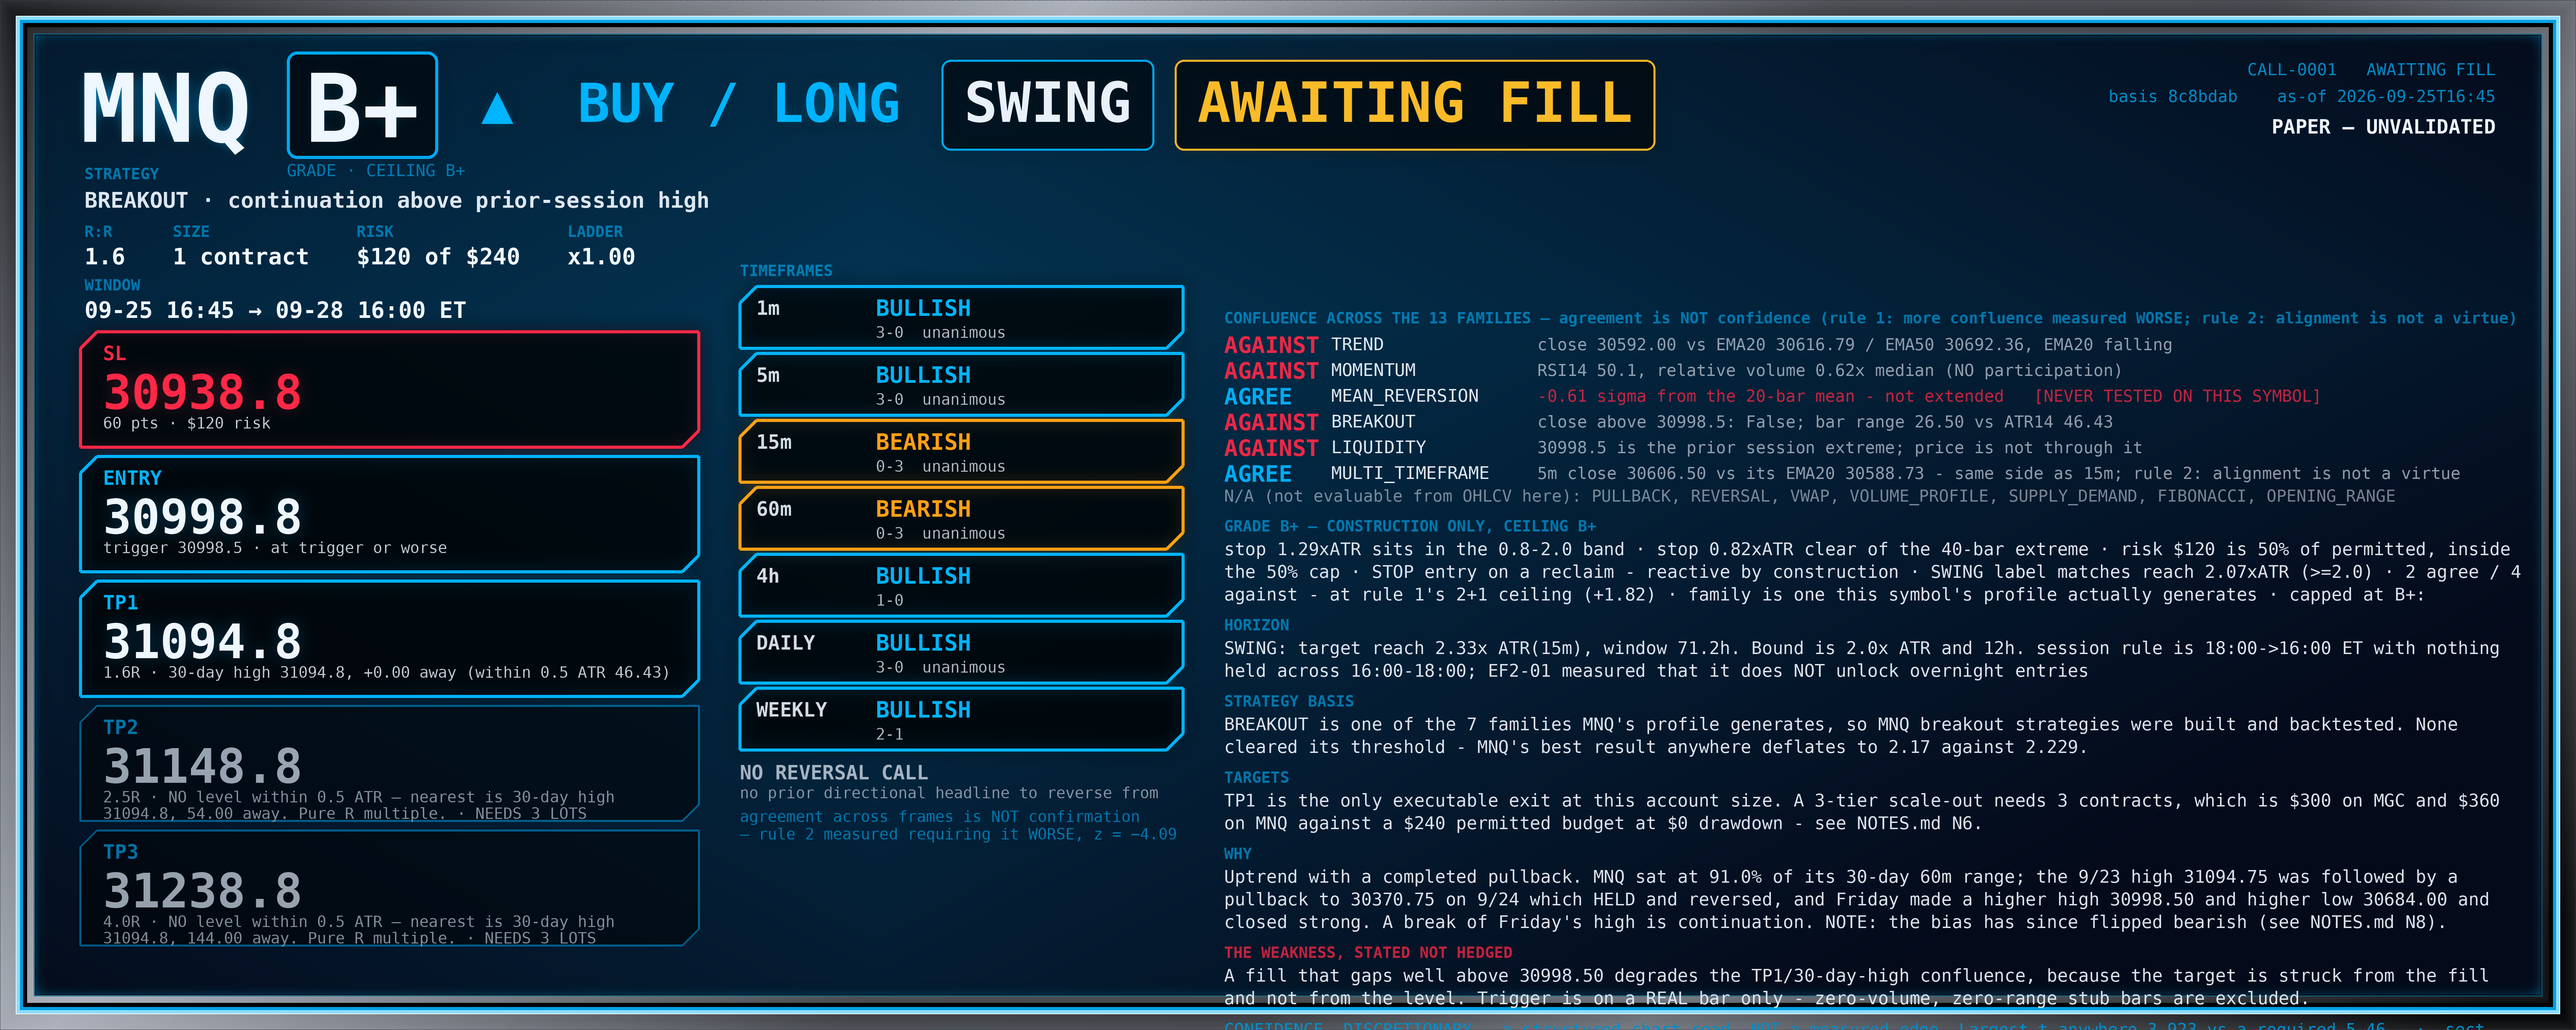
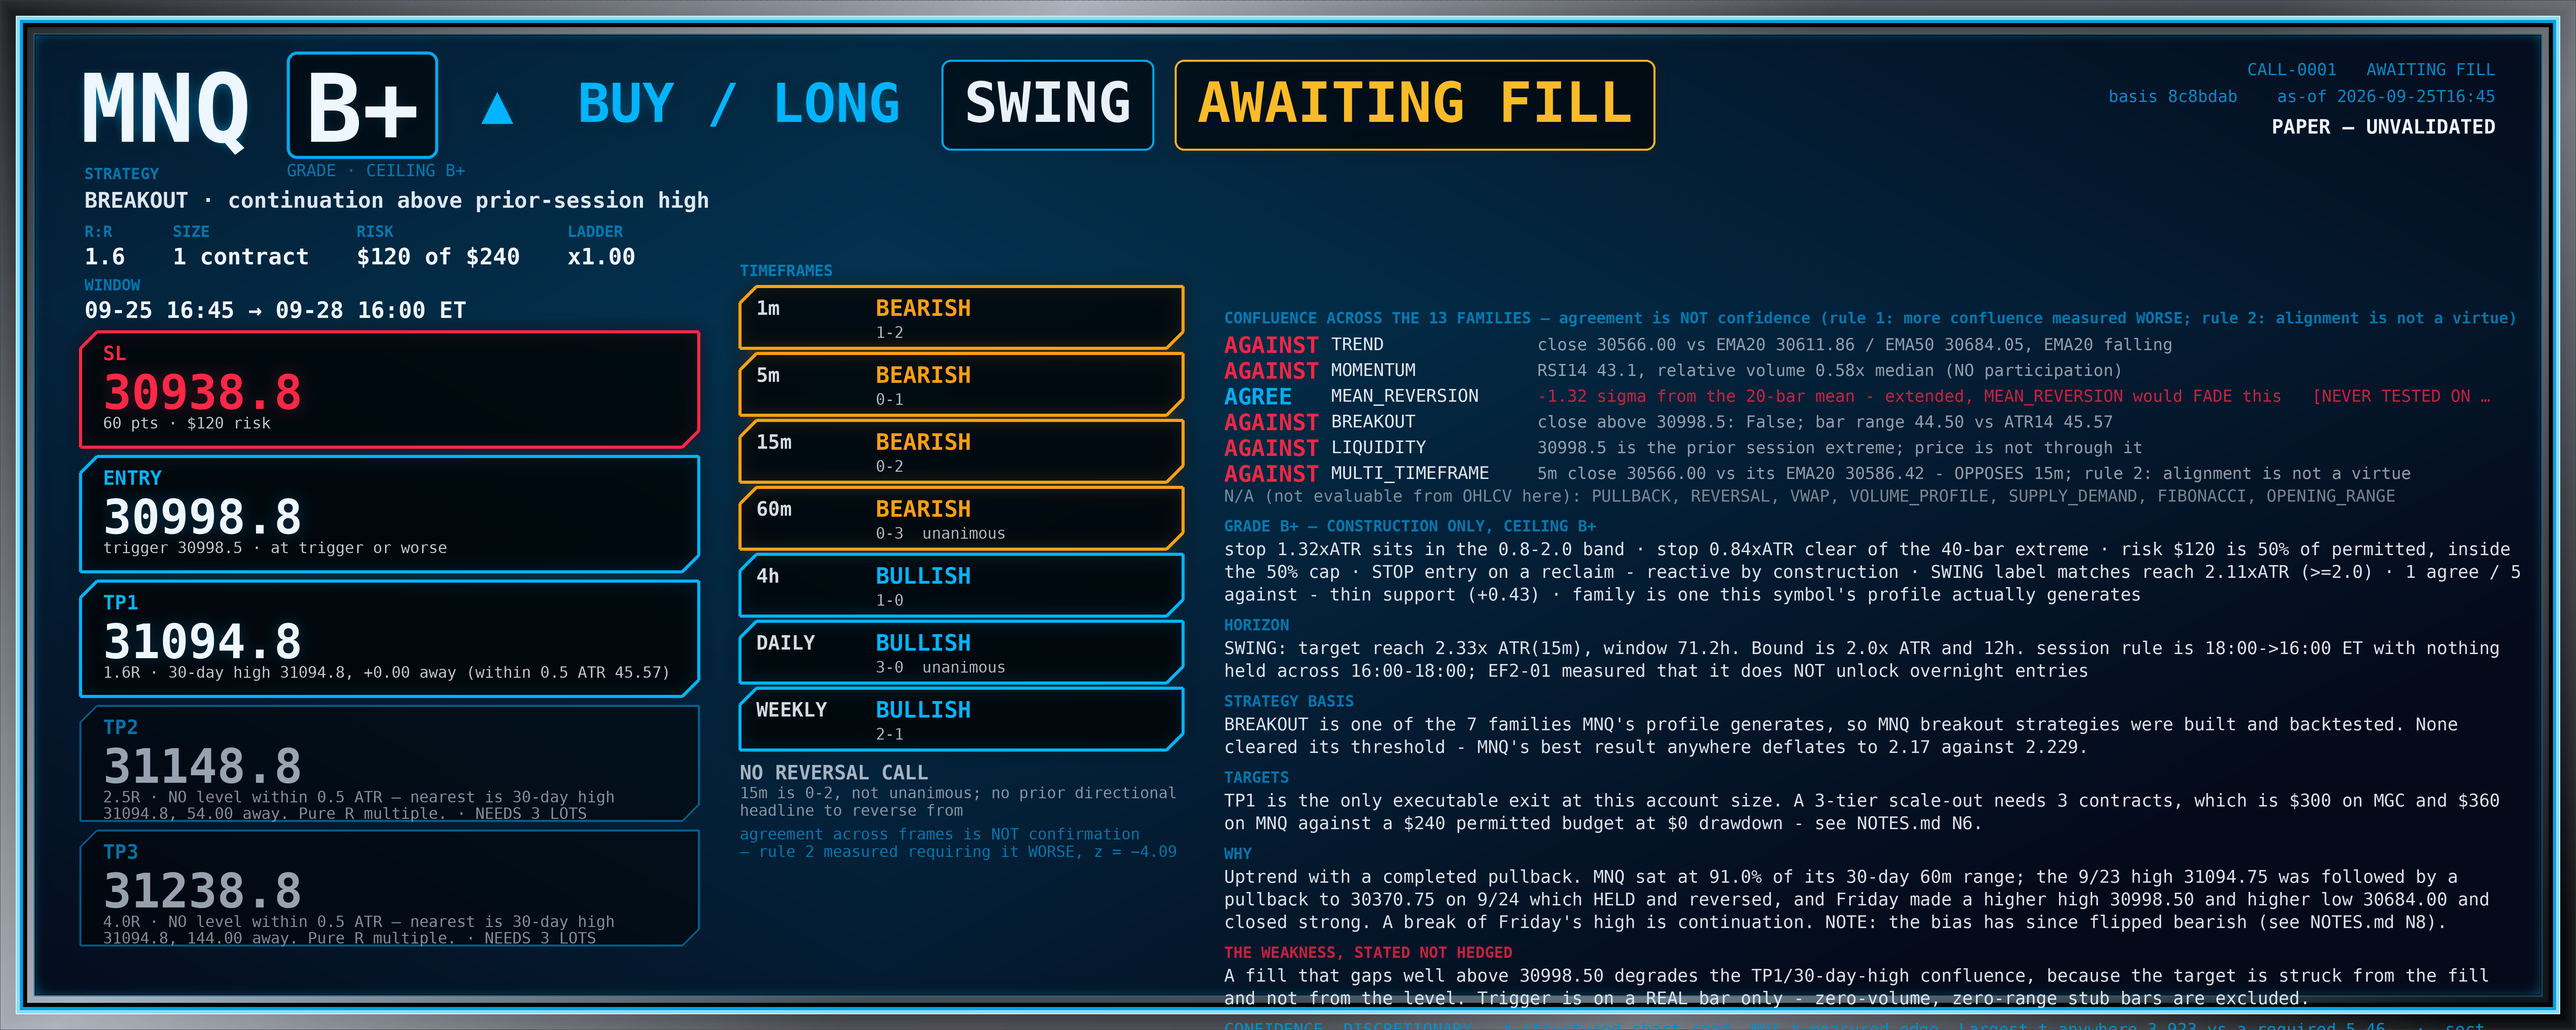
CALL desk: N95/N96 - MNQ's 15m loses unanimity for the first time all session; the 06:00 bar does NOT expire CALL-0004
N95: two firsts on MNQ. regime.py reports 15m BEARISH 0-2 rather than 0-3 - the first
time either symbol's 15m has left unanimity since the session began, and regime.py
names it in its reversal line. And chart.py reports MNQ structure MIXED, swing highs
30606.50 -> 30609.00 (higher) against lows 30571.00 -> 30535.00 (lower).

Applying the N70/N89 test before treating either as a turn: the higher high is 2.50
points against MNQ's 19.75-point largest non-session-open 15m high revision - 13% of
the noise floor. The higher high is NOT established; the detector is reacting to a
difference smaller than the feed's own restatements. The unanimity loss is a different
object - a count of three sub-signals, one of which flipped - so it is real but small,
and it happened while MNQ FELL 40 points in five minutes (30606.50 -> 30566.00). MNQ
location 15.6% -> 8.5%, and its 1m/5m have flipped back to bearish from unanimous
bullish five minutes ago. No reversal call, no long, no change of stance: MNQ's range
has widened at both ends, which is what a 30.6% ATR expansion looks like from inside.

N96: the 15m frame advanced and the new bar is stamped exactly 2026-09-28T06:00:00-04:00
- CALL-0004's expires_bar_ts. Tested directly: needs > 06:00, so NOT YET. The strict
comparison doing exactly what N86 said, and what the 06:13 estimate I repeated all night
could not account for. The plan needs the 06:15 bar, completing 06:30, in hand ~06:31-
[…]

diff --git a/workspace/paper/CALL/NOTES.md b/workspace/paper/CALL/NOTES.md
@@ -3951,3 +3951,59 @@ unanimous bearish. MGC 1m and 5m both BULL 2-0. Locations MGC 12.8% of [4172.60,
 [30535.00, 30900.50].
 
 No call. Reversal test false on both symbols. MGC RTH opens **08:20 ET**, 2h06m out.
+
+## N95 — MNQ's 15m frame is out of unanimity for the first time all session, and its structure reads MIXED. But the higher high is 2.50 points against a 19.75 noise floor
+
+Two genuine firsts at 06:19, both on MNQ:
+
+1. **`regime.py` reports MNQ 15m as BEARISH 0-2, not 0-3.** The 15m frame has been unanimous bearish on
+   both symbols continuously since the session began — this is the first time either symbol's 15m has
+   dropped out of unanimity. `regime.py` says so itself in its reversal line: *"15m is 0-2, not
+   unanimous."*
+2. **`chart.py` reports MNQ structure as MIXED**, swing highs `30606.50 -> 30609.00` (**higher**) against
+   lows `30571.00 -> 30535.00` (lower). An expanding range rather than a downtrend.
+
+Before treating either as a turn, the test from N70/N89: **MNQ's higher high is 30609.00 − 30606.50 =
+2.50 points, against a 19.75-point largest non-session-open 15m high revision.** That is deep inside
+noise — 13% of the observed maximum. The "higher high" is not established, and the detector labelling the
+structure MIXED is reacting to a difference smaller than the feed's own restatements.
+
+The 15m frame losing unanimity is a different matter, because it is a count of three sub-signals rather
+than a level comparison, and 0-2 versus 0-3 means one sub-signal flipped. That is real but small, and it
+has happened while MNQ **fell 40 points in five minutes** — 30606.50 -> 30566.00 on the 5m frame — so the
+bounce that produced the higher high is already failing. MNQ location has gone 15.6% -> **8.5%** of
+[30535.00, 30900.50] in one check, and its 1m and 5m frames have flipped back to bearish (1-2 and 0-1)
+from unanimous bullish 3-0 five minutes ago. That is the ninth and tenth 1m/5m state change tonight.
+
+So: no reversal call, no long, no change of stance. The reversal test returns false on both symbols and
+explicitly names the missing condition on MNQ. What has actually happened is that MNQ's range has widened
+at both ends, which is what a 30.6% ATR expansion looks like from the inside.
+
+## N96 — N86's expiry arithmetic confirmed to the tick: the `06:00` bar exists and does NOT expire CALL-0004
+
+The 15m frame advanced this fetch, `+1 new`, and the new bar is stamped **`2026-09-28T06:00:00-04:00`** —
+exactly CALL-0004's `expires_bar_ts`. Tested directly:
+
+    newest 15m is 2026-09-28T06:00:00-04:00
+    needs > 2026-09-28T06:00:00-04:00   ->   NOT YET
+
+This is the strict comparison doing precisely what N86 said it would and what the 06:13 estimate I had
+been repeating all night could not account for. The plan needs the **`06:15`** bar, which completes at
+06:30 and — on the measured 0.5-4.6 minute publication delay — should be in hand about **06:31-06:35**.
+
+Seventh machinery prediction tonight to hold without amendment. It is also the one with the most
+practical value of any of them: without it I would have reported CALL-0004 as expired at 06:13, from the
+clock, when the resolver had not written anything, which is the exact failure mode N32 exists to prevent.
+
+## N97 — 06:19 state
+
+Newest settled 15m `05:45` on both (MGC c 4188.30, MNQ c 30592.00); the `06:00` bar settles at **06:28**.
+Newest real 5m `06:05` on both, lag 14.5m.
+
+MGC unsettled 4187.50 with the `06:00` 15m bar's high at 4191.40 — still 1.70 short of the 4193.10 swing
+high, and the excess over 4185.20 is 6.20, now exactly at the measured maximum high revision rather than
+inside it. Worth watching at the next settle. MGC's 40-bar high fell again, 4295.20 -> **4291.90**, as
+another old bar rolled out of the trailing window (N53, fifth sighting). Location 12.5% of
+[4172.60, 4291.90].
+
+MGC 1m BULL unanimous 3-0, 5m BULL 2-0; 15m and 60m unanimous bearish, unchanged all session. No call.
